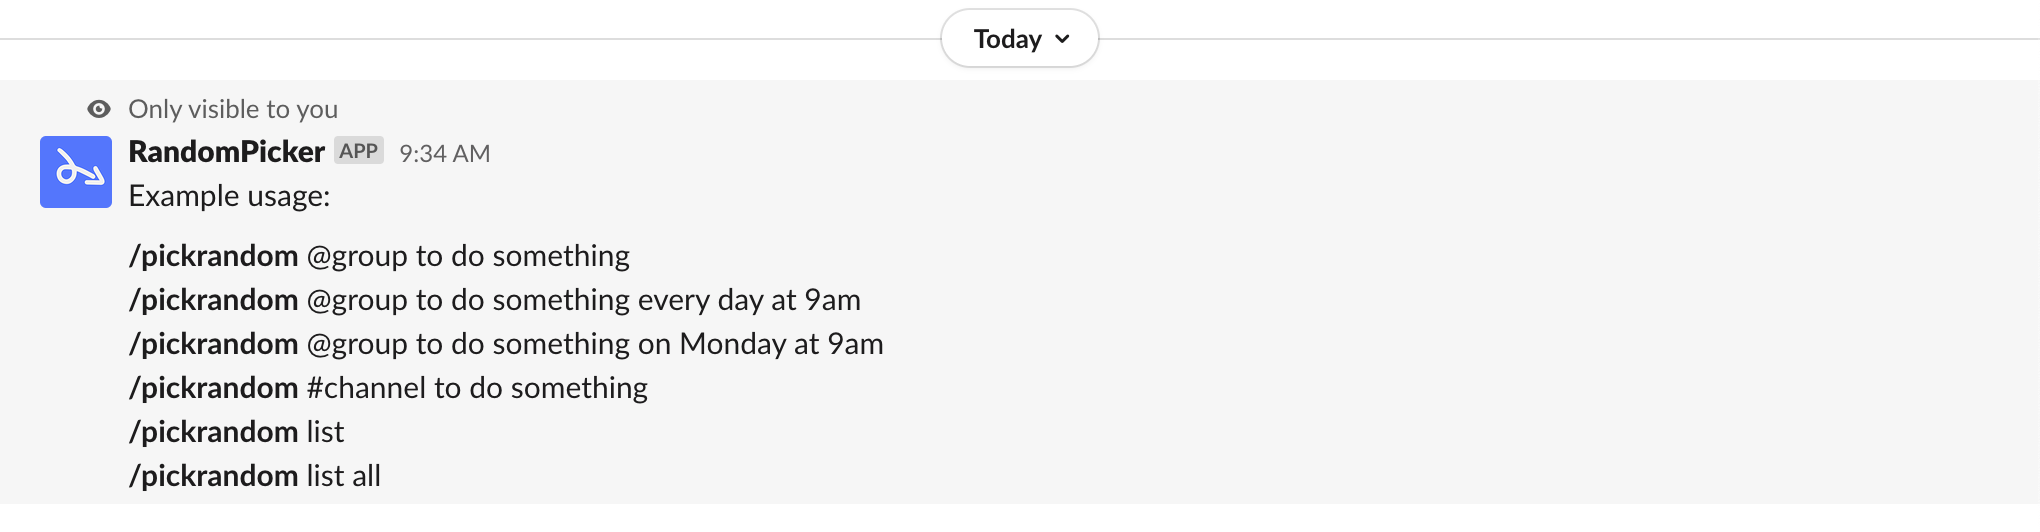
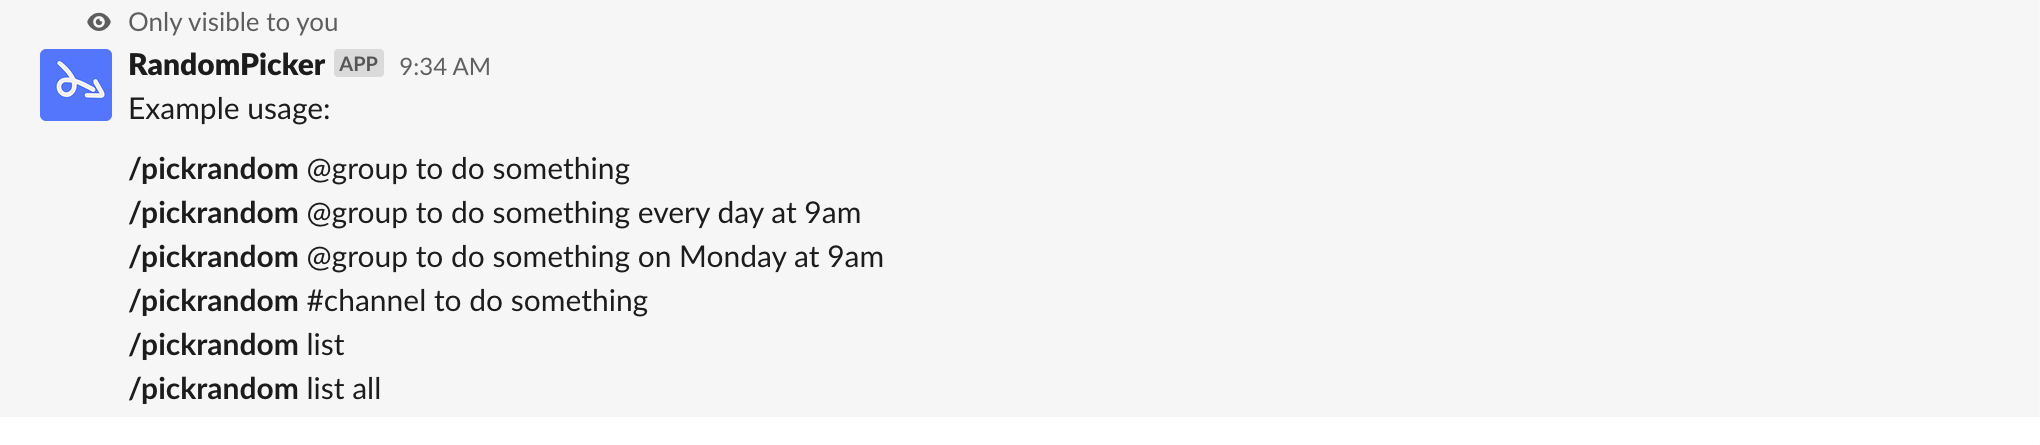
resize images

diff --git a/README.md b/README.md
@@ -12,15 +12,15 @@ To show the help, you can type `/pickrandom help` in Slack:
 
 Here is the output of an instantaneous random pick, using `/pickrandom #general to play music`:
 
-![Instantaneous random pick](./docs/2_pick_now.png)
+<img src="./docs/2_pick_now.png" alt="Instantaneous random pick" width="50%" />
 
 And an example of a periodic random pick, using `/pickrandom #general to prepare slides every Monday at 10am`:
 
-![Periodic random pick](./docs/3_pick_later.png)
+<img src="./docs/3_pick_later.png" alt="Periodic random pick" width="78%" />
 
 To dispay all the current scheduled random picks, you can do `/pickrandom list`:
 
-![List of random picks](./docs/4_pick_list.png)
+<img src="./docs/4_pick_list.png" alt="List of random picks" width="85%" />
 
 ## Server installation
 
